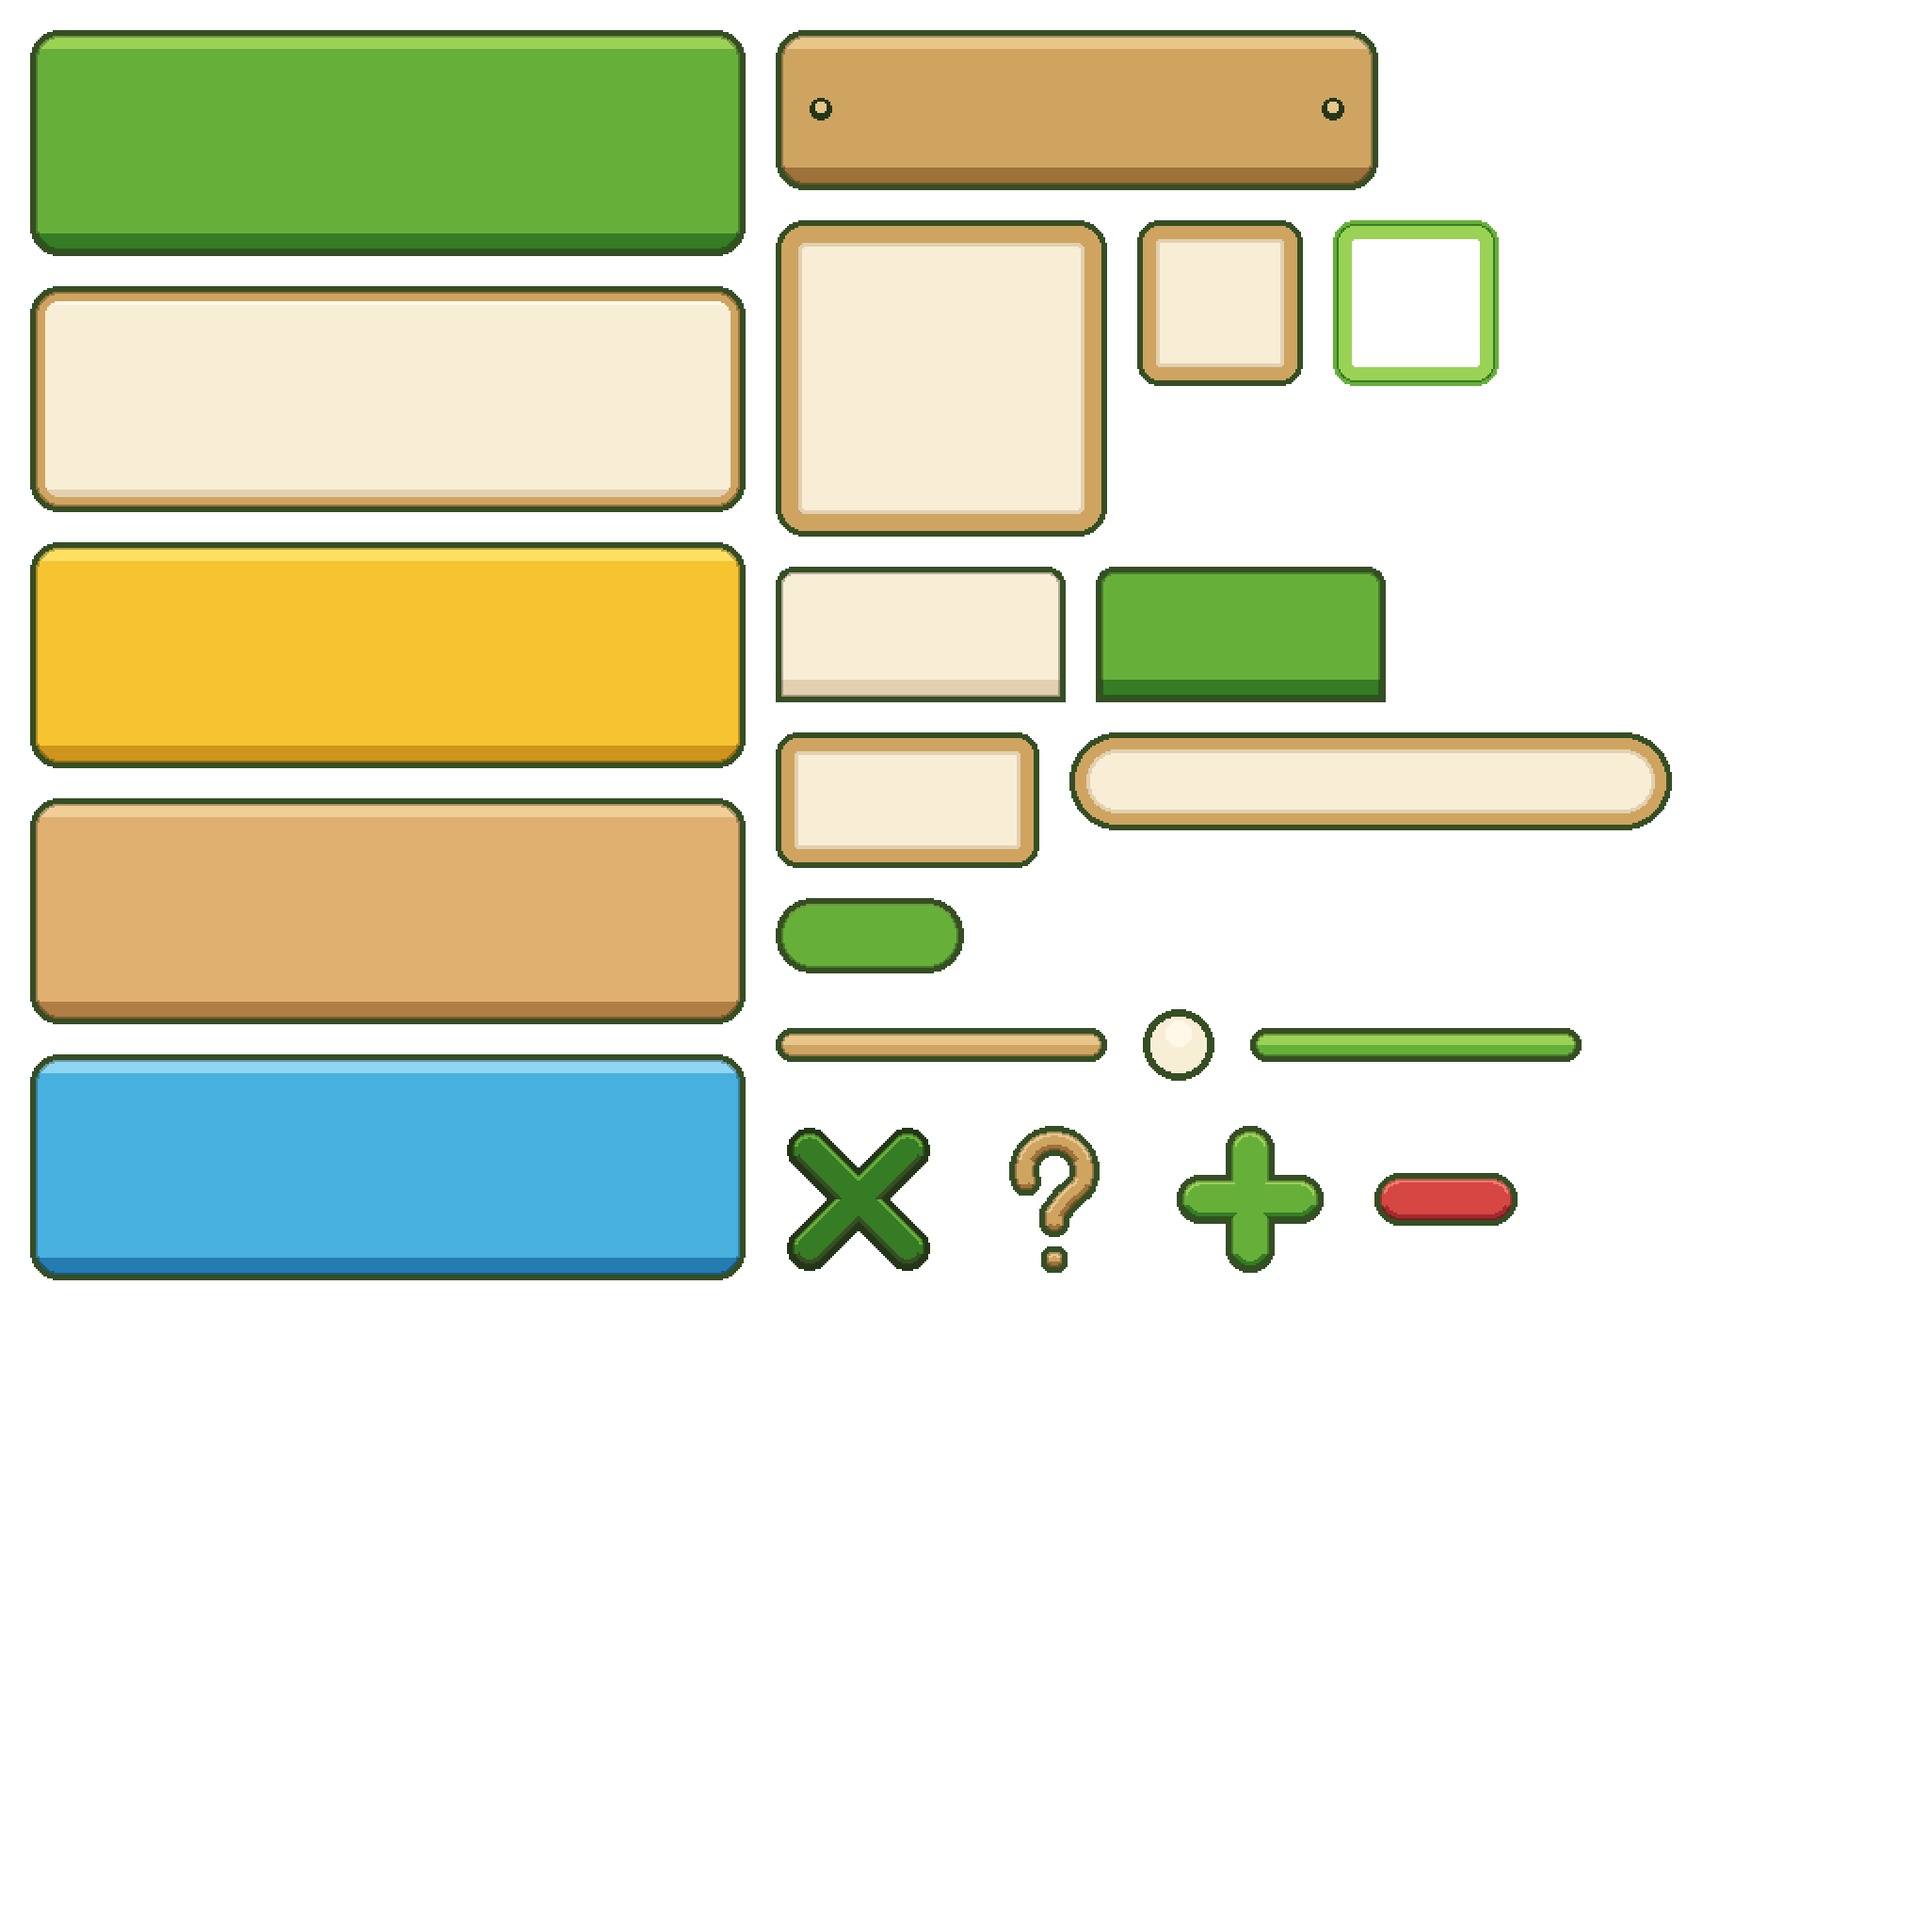
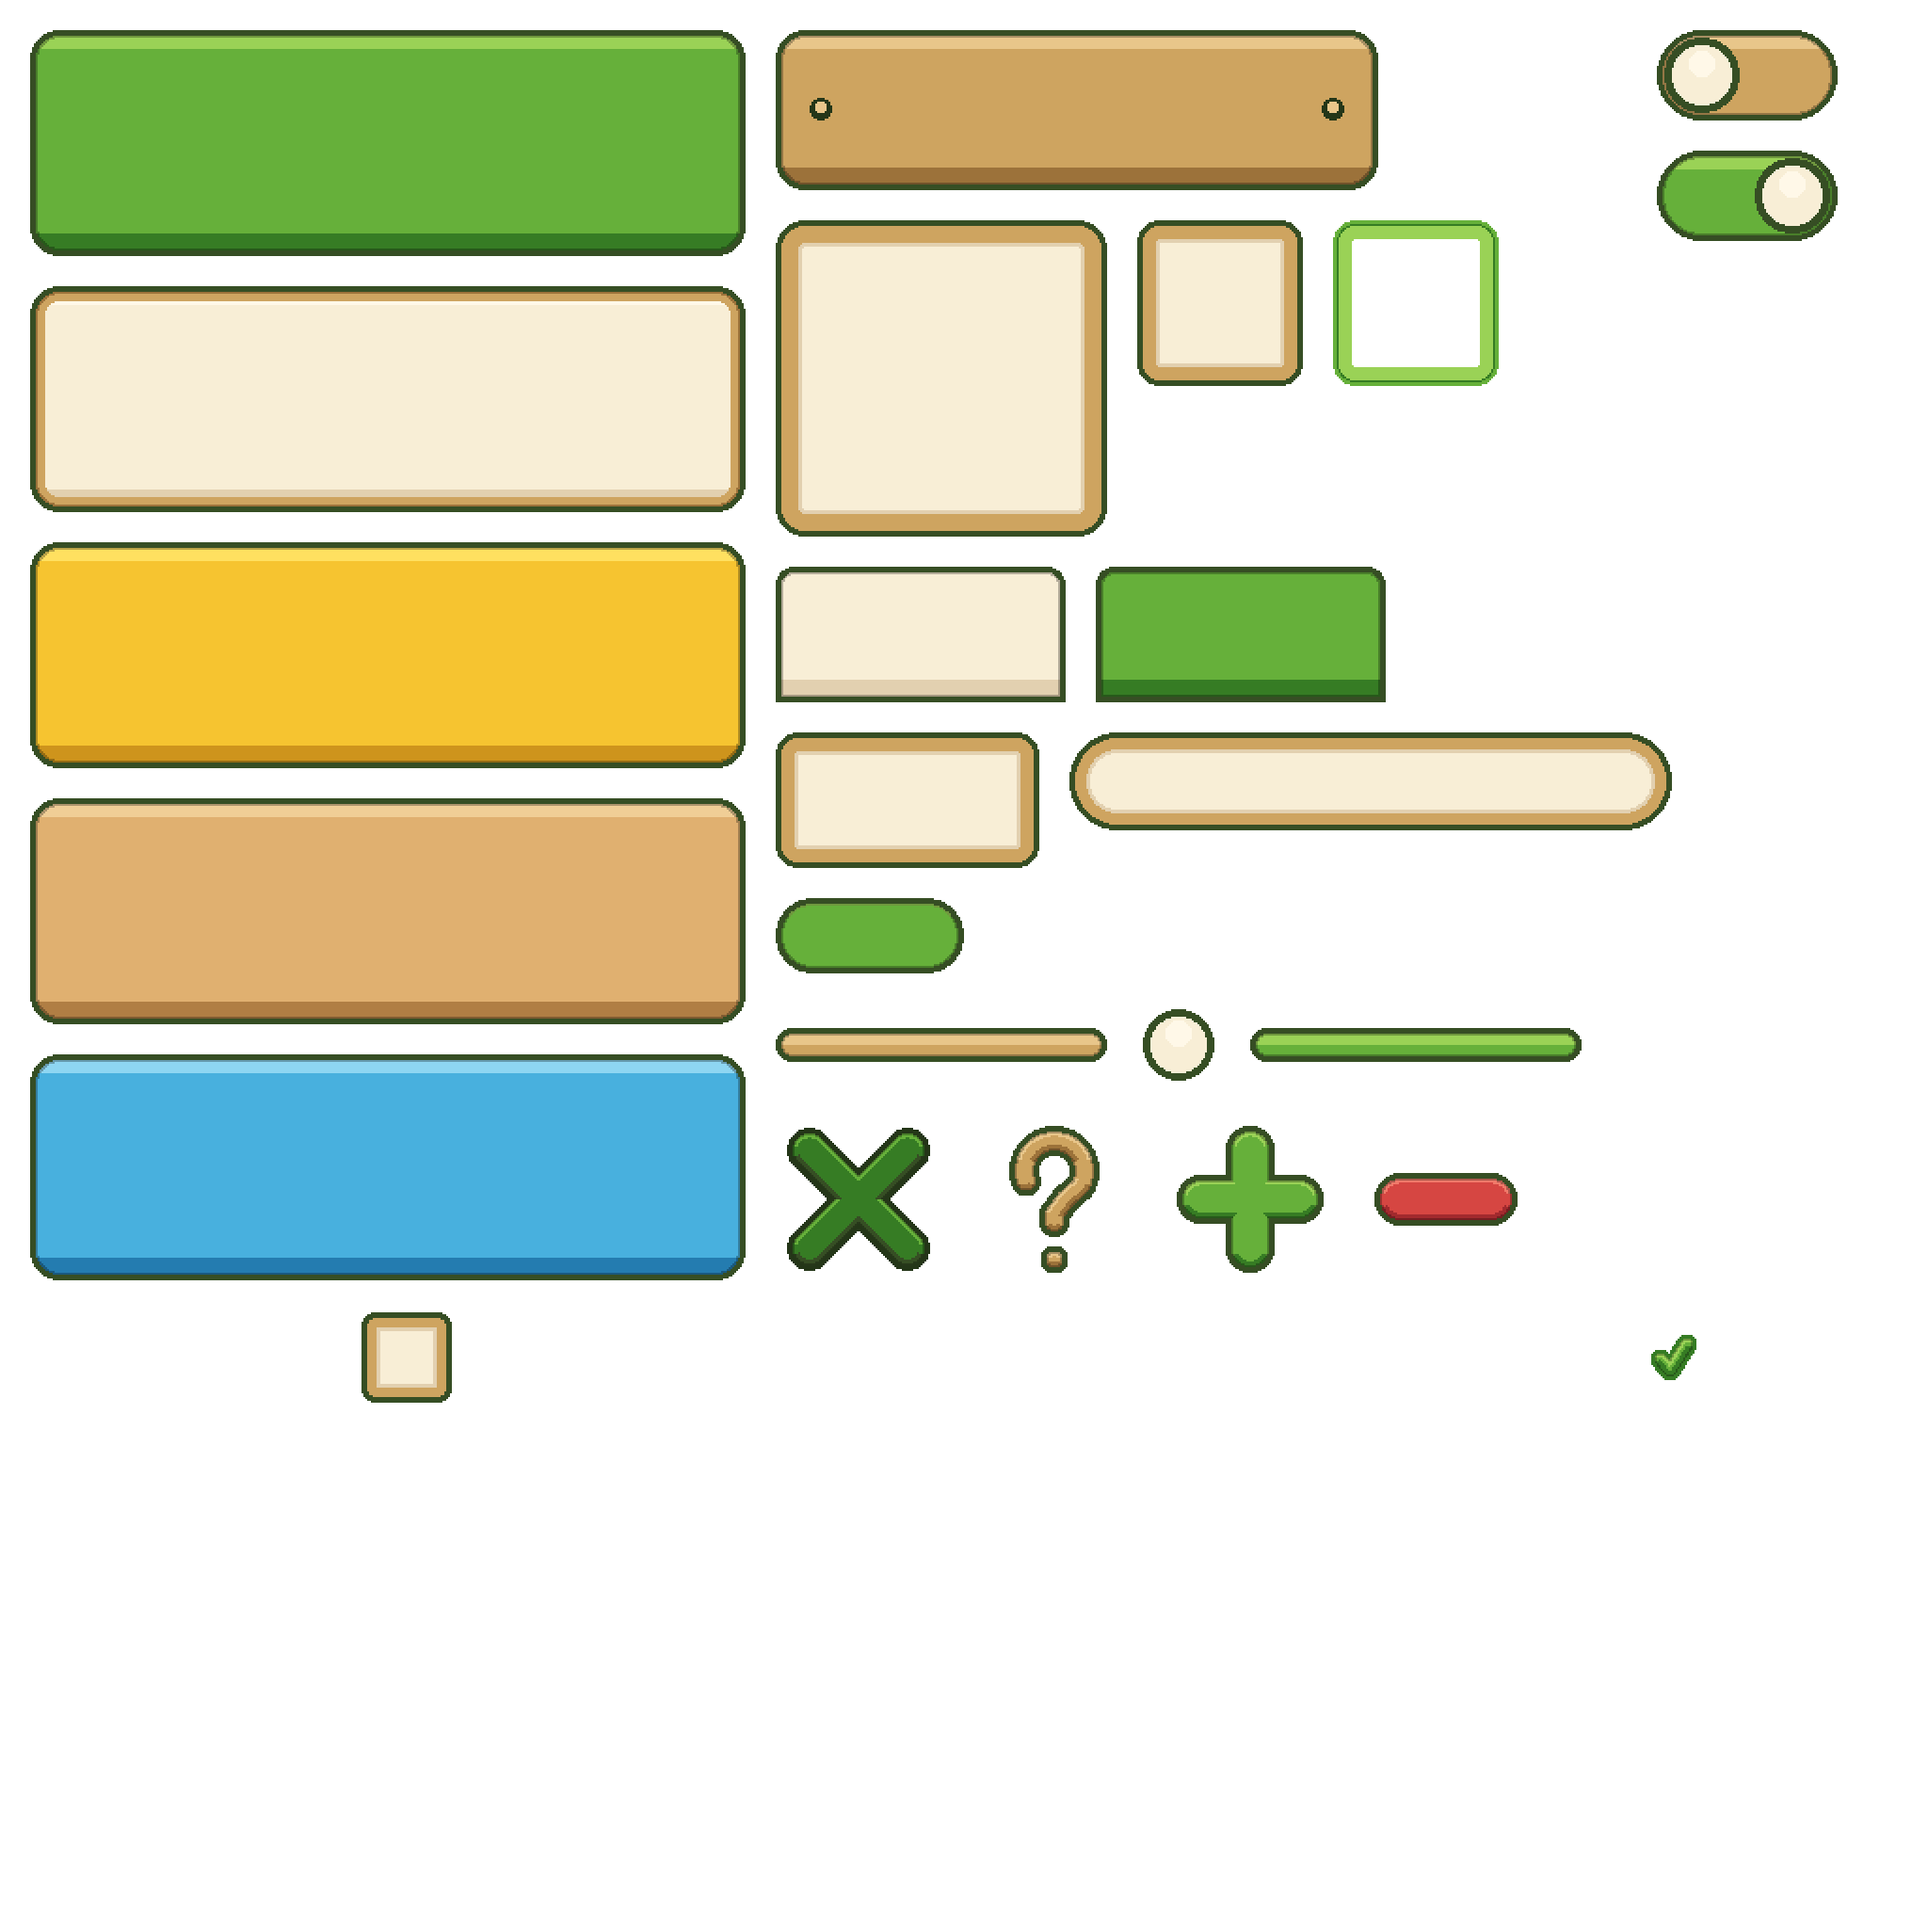
画出开关和勾选框，空槽改成能进游戏的皮。

Changed region(s): [[0.8438, 0.0, 0.9688, 0.125], [0.1875, 0.6562, 0.25, 0.75], [0.8438, 0.6875, 0.875, 0.7188]]

diff --git a/style/ZooV7/控件/说明.md b/style/ZooV7/控件/说明.md
@@ -29,8 +29,16 @@
 | `icon_help` | 帮助，浅橡木问号 | 底行的问号 |
 | `icon_plus` | 加，草地绿 | 底行的加号 |
 | `icon_minus` | 减。母版这个符号是红色，五色里没有红 | 底行的红色减号 |
+| `switch_off` | 开关关掉。浅橡木胶囊，奶油圆钮在左。显示尺寸 96×48，不拉伸 | 母版上没有 |
+| `switch_on` | 开关打开。草地绿胶囊，奶油圆钮在右。显示尺寸 96×48，不拉伸 | 母版上没有 |
+| `checkbox` | 勾选框。浅橡木框，中间奶油，没有勾。显示尺寸 48×48，不拉伸 | 母版上没有 |
+| `checkbox_mark` | 勾。草地绿，叠在勾选框上。显示尺寸 48×48，不拉伸 | 母版上没有 |
 
 圆钮这一组是三件：`slider_track` 是背景，`progress_fill` 是前景，`slider_thumb` 是圆钮。两条都是细条，绿的叠在木的上面当进度。`bar_bg` 和 `bar_fill` 是另一对长的经验条，不是这组。
+
+开关是两张，圆钮画在图里。`switch_off` 是浅橡木，圆钮在左。`switch_on` 是草地绿，圆钮在右。不占 `checkbox`。
+
+勾选框是两张。`checkbox` 是浅橡木框。`checkbox_mark` 是草地绿的勾，勾上才叠上去。不占 `switch_off`、`switch_on`。
 
 ## 预留
 
@@ -38,8 +46,6 @@
 
 | 槽名 | 用途 |
 |---|---|
-| `switch` | 开关 |
-| `checkbox` | 勾选框 |
 | `radio` | 单选 |
 | `input` | 输入框 |
 | `badge` | 角标 |

diff --git a/style/ZooV7/控件/history/v8/结论.md b/style/ZooV7/控件/history/v8/结论.md
@@ -2,6 +2,8 @@
 
 采用。按已确认的 2 倍尺寸用脚本重画，硬边、空白 alpha 为 0。
 描边统一为显示尺寸 3 像素，圆钮是 4 像素。圆钮两侧是一对细条：浅橡木是背景，草地绿是前景。
+开关是两张：关掉浅橡木、圆钮在左；打开草地绿、圆钮在右。不占 checkbox。
+勾选框是浅橡木框，勾是单独一张草地绿。不占开关。
 选中框盖住木格的深色描边和浅橡木圈。浅橡木那一圈用浅草地绿，中间透空。
 叉、问号、加号、减号是圆角描边。问号用浅橡木，叉用按钮的深绿。
 风格句用 `style/ZooV7/style.md`。母版只作对照：`style/ZooV7/控件/history/v7/ui-sheet-v7.png`。

diff --git a/style/ZooV7/控件/prompt.md b/style/ZooV7/控件/prompt.md
@@ -14,7 +14,7 @@
 - 脚本：`tools/draw-zoo-v7-ctrl.mjs`
 - 画布 2048×2048。在显示尺寸上画硬边，最近邻放大 2 倍。空白像素 alpha 为 0。
 - 不把 v7 的 1024 图放大。v7 按钮写的是 288×80，和 2 倍规则不一致，只作风格对照。
-- 名单上的槽是 21 个（票面写了 20，把名字数一遍是 21）。另有 10 个空槽，`reserved` 为 true，图上不画。
+- 已画 25 个。原先数出来是 21 个（票面写过 20）。开关是 `switch_off`、`switch_on`。勾选框是 `checkbox`、`checkbox_mark`。另有 8 个空槽，`reserved` 为 true，图上不画。已有那 21 件的位置和画法不动。
 
 ## 历史
 
